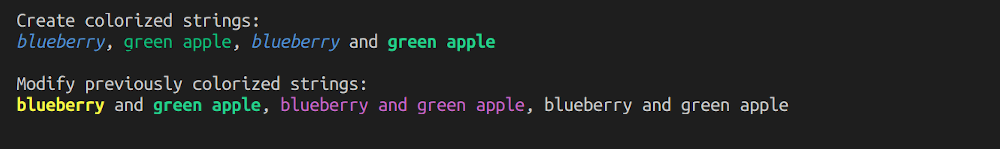
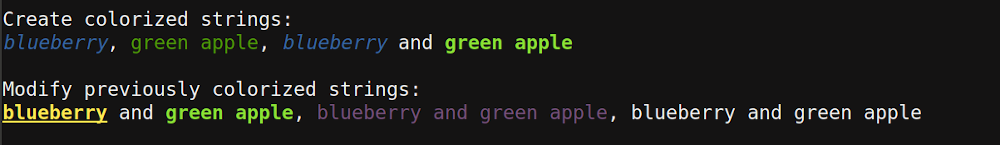
Updated image.

Changed region(s): [[0.0, 0.4966, 0.93, 0.8552], [0.0, 0.0828, 0.589, 0.3862]]

diff --git a/example/bin/color_example.dart b/example/bin/color_example.dart
@@ -2,7 +2,7 @@ import 'package:ansi_modifier/src/ansi.dart';
 
 void main(List<String> args) {
   /// Create colorized strings.
-  print('Create colorized strings:');
+  print('\nCreate colorized strings:');
   final blue = 'blueberry'.style(Ansi.blue + Ansi.italic);
   final green = 'green apple'.style(Ansi.green);
   final blueGreen = blue +
@@ -17,13 +17,13 @@ void main(List<String> args) {
   print('\nModify previously colorized strings:');
 
   /// Replace first modifier:
-  final yellowGreen = blueGreen.style(Ansi.yellow + Ansi.bold + Ansi.underline,
-      method: Replace.first);
+  final customModifier = Ansi.combine({Ansi.yellow, Ansi.bold, Ansi.underline});
+  final yellowGreen = blueGreen.style(customModifier, method: Replace.first);
 
   /// Replace all modifiers.
   final magenta =
       yellowGreen.style(Ansi.magenta, method: Replace.clearPrevious);
 
   /// Strip all Ansi modifiers.
-  print('$yellowGreen, $magenta, ${magenta.clearStyle()}');
+  print('$yellowGreen, $magenta, ${magenta.clearStyle()}\n');
 }
